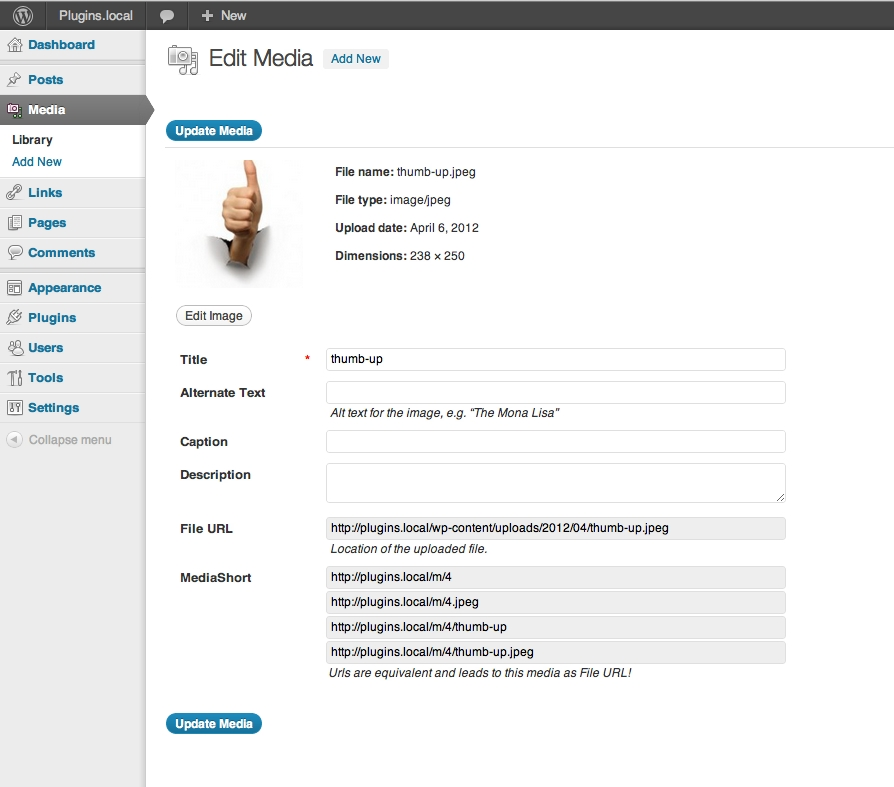
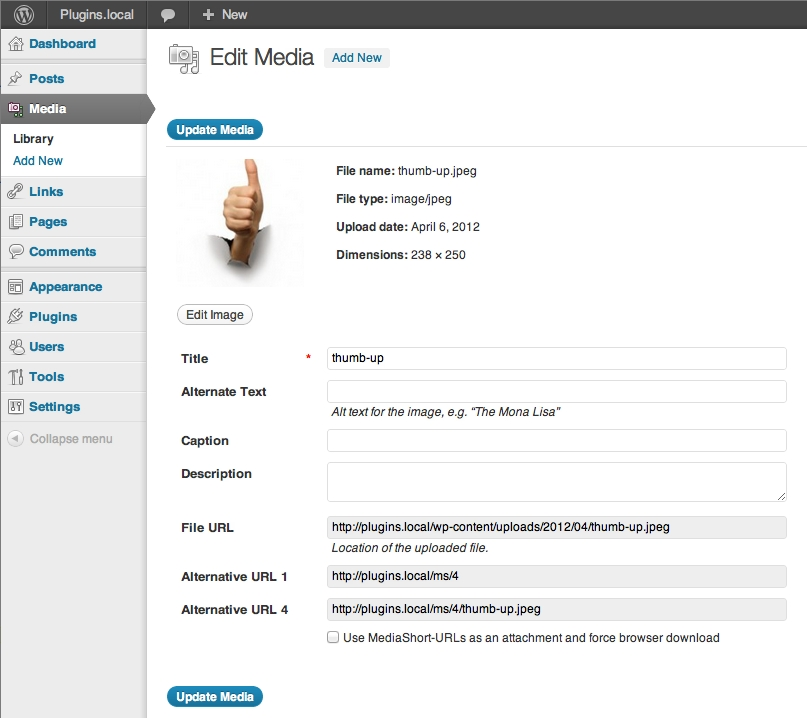
1.2
git-svn-id: https://plugins.svn.wordpress.org/mediashort/trunk@528508 b8457f37-d9ea-0310-8a92-e5e31aec5664

diff --git a/includes/ms_settings.class.php b/includes/ms_settings.class.php
@@ -7,11 +7,27 @@ $ms_settings = new MediaShort_Settings();
  */
 class MediaShort_Settings{
 
+    public $active;
+    public $transfer;
+    public $baseurl;
+    public $tag;
+    public $links;
+
     public function __construct()
     {
         add_action('admin_menu', array( &$this, 'menu' ));
+        $this->init_variables();
     }
-    
+
+    function init_variables(){
+        $mediashort_settings = get_option( 'mediashort-settings', '');
+        $this->active = (int)$mediashort_settings['active'];
+        $this->transfer = empty($mediashort_settings['transfer']) ? 'file' : $mediashort_settings['transfer'];
+        $this->baseurl = $mediashort_settings['baseurl'];
+        $this->tag = empty($mediashort_settings['tag']) ? 'ms' : $mediashort_settings['tag'];
+        $this->links = empty($mediashort_settings['links']) ? '1' : $mediashort_settings['links'];
+    }
+
     public function menu()
     {
         global $current_user;
@@ -45,10 +61,16 @@ class MediaShort_Settings{
             if ($_REQUEST['active']) $mediashort_settings['active'] = 1;
             else $mediashort_settings['active'] = 0;
 
-            if ($_REQUEST['remove_www']) $mediashort_settings['remove_www'] = 1;
-            else $mediashort_settings['remove_www'] = 0;
-
+            $transfer = esc_attr($_REQUEST['transfer']);
+            $mediashort_settings['transfer'] = empty($transfer) ? 'file' : $transfer;
+            $mediashort_settings['baseurl'] = esc_attr($_REQUEST['baseurl']);
             $mediashort_settings['tag'] = esc_attr($_REQUEST['tag']);
+
+            $links = 0;
+            foreach($_REQUEST['links'] as $link){
+                $links += (int)$link;
+            }
+            $mediashort_settings['links'] = (int)$links;
 
             update_option('mediashort-settings', $mediashort_settings);
 
@@ -59,11 +81,32 @@ class MediaShort_Settings{
             <div class="updated"><p><strong><?php _e("MediaShort settings is updated!","mediashort") ?></strong></p></div>
             <?php
 
+            $this->init_variables();
         }
 
-        $active = (int)$mediashort_settings['active'];
-        $remove_www = (int)$mediashort_settings['remove_www'];
-        $tag = empty($mediashort_settings['tag']) ? 'ms' : $mediashort_settings['tag'];
+            $root = get_bloginfo('url');
+            if (!empty($this->baseurl)) $root = $this->baseurl;
+
+            $filename = "example";
+            $ext = ".jpg";
+            $post_id = 465;
+
+            //Get the latest attachment as an example!
+            $args = array(
+                'numberposts'     => 1,
+                'post_type'       => 'attachment'
+            );
+            $posts_array = get_posts( $args );
+
+            if (sizeof($posts_array)>0){
+                $post_id = $posts_array[0]->ID;
+                $post = get_post($posts_id);
+                $ext_start = strrpos($post->guid,'.');
+                if ($ext_start>0){
+                    $ext = substr($post->guid, $ext_start);
+                }
+            }
+
 
     ?>
             <form method="post" >
@@ -73,25 +116,38 @@ class MediaShort_Settings{
                         <td>
                             <?php
                                 echo '<input type="checkbox" name="active" ';
-                                if ($active) echo ' checked';
+                                if ($this->active) echo ' checked';
                                 echo '>';
                             ?>
                         </td>
                     </tr>
                     <tr valign="top">
-                        <th scope="row"><?php _e('Remove www from url', 'mediashort'); ?>:</th>
+                        <th scope="row"><?php _e('Base URL replacement', 'mediashort'); ?></th>
                         <td>
-                            <?php
-                                echo '<input type="checkbox" name="remove_www" ';
-                                if ($remove_www) echo ' checked';
-                                echo '>';
-                            ?>
+                            <input type="input" name="baseurl" value="<?php echo $this->baseurl; ?>" /> <?php _e('(In case of use duplicate url address, eg http://amek.se instead of base url http://www.amek.se)','mediashort') ?>
                         </td>
                     </tr>
                     <tr valign="top">
                         <th scope="row"><?php _e('Short URL tag', 'mediashort'); ?></th>
                         <td>
-                            <input type="input" name="tag" value="<?php echo $tag; ?>" /> <?php _e('(This will change the old MediaShort URLs!)','mediashort') ?>
+                            <input type="input" name="tag" value="<?php echo $this->tag; ?>" /> <?php _e('(This will change the old MediaShort URLs!)','mediashort') ?>
+                        </td>
+                    </tr>
+                    <tr valign="top">
+                        <th scope="row"><?php _e('Transfer mode', 'mediashort'); ?></th>
+                        <td>
+                            <input name="transfer" type="radio" value="redirect" <?php if ($this->transfer=='redirect') echo 'checked'; ?>> <?php _e('Redirect (force download as attachment will not work)','mediashort'); ?><br/>
+                            <input name="transfer" type="radio" value="file" <?php if ($this->transfer=='file') echo 'checked'; ?>> <?php _e('Rewrite the url and transfer content','mediashort'); ?><br/>
+                            <!--input enabled="false" name="transfer" type="radio" value="curl" <?php if ($this->transfer=='curl') echo 'checked'; ?>> <?php _e('Use cURL','mediashort'); ?><br/-->
+                        </td>
+                    </tr>
+                    <tr valign="top">
+                        <th scope="row"><?php _e('Show link type in media dialog', 'mediashort'); ?></th>
+                        <td>
+                            <input name="links[]" type="checkbox" value="1" <?php if ($this->links & 1) echo 'checked'; ?> /> <?php _e("Alternative URL 1: Shortest possible","mediashort") ?>, <?php echo $root; ?>/<?php echo $this->tag ?>/ID, eg <em><a target="_blank" href="<?php echo $root; ?>/<?php echo $this->tag; ?>/<?php echo $post_id; ?>"><?php echo $root; ?>/<?php echo $this->tag; ?>/<?php echo $post_id; ?></a></em><br/>
+                            <input name="links[]" type="checkbox" value="2" <?php if ($this->links & 2) echo 'checked'; ?> /> <?php _e("Alternative URL 2: Short with filename extention","mediashort") ?>, <?php echo $root; ?>/<?php echo $this->tag ?>/ID.extention, eg <em><a target="_blank" href="<?php echo $root; ?>/<?php echo $this->tag; ?>/<?php echo $post_id; ?><?php echo $ext; ?>"><?php echo $root; ?>/<?php echo $this->tag; ?>/<?php echo $post_id; ?><?php echo $ext; ?></a></em><br/>
+                            <input name="links[]" type="checkbox" value="4" <?php if ($this->links & 4) echo 'checked'; ?> /> <?php _e("Alternative URL 3: The filename","mediashort") ?>, <?php echo $root; ?>/<?php echo $this->tag ?>/ID/filename, eg <em><a target="_blank" href="<?php echo $root; ?>/<?php echo $this->tag; ?>/<?php echo $post_id; ?>/<?php echo $filename; ?>"><?php echo $root; ?>/<?php echo $this->tag; ?>/<?php echo $post_id; ?>/<?php echo $filename; ?></a></em><br/>
+                            <input name="links[]" type="checkbox" value="8" <?php if ($this->links & 8) echo 'checked'; ?> /> <?php _e("Alternative URL 4: The filename and extention","mediashort") ?>, <?php echo $root; ?>/<?php echo $this->tag ?>/ID/filename.extention, eg <em><a target="_blank" href="<?php echo $root; ?>/<?php echo $this->tag; ?>/<?php echo $post_id; ?>/<?php echo $filename; ?><?php echo $ext; ?>"><?php echo $root; ?>/<?php echo $this->tag; ?>/<?php echo $post_id; ?>/<?php echo $filename; ?><?php echo $ext; ?></a></em><br/>
                         </td>
                     </tr>
                 </table>

diff --git a/includes/ms_mediaview.class.php b/includes/ms_mediaview.class.php
@@ -15,23 +15,21 @@ class MediaShort_MediaView{
     function admin_init(){
 
         add_filter("attachment_fields_to_edit", array(&$this,'fields_to_edit'), null, 2);
+        add_filter( "attachment_fields_to_save", array( &$this, 'fields_to_save'), null, 2 );
 
     }
 
     function fields_to_edit($form_fields, $post){
 
-        $mediashort_settings = get_option( 'mediashort-settings', '');
-        $active = $mediashort_settings['active'];
-        $remove_www = $mediashort_settings['remove_www'];
-        $tag = empty($mediashort_settings['tag']) ? 'ms' : $mediashort_settings['tag'];
+        $settings = new MediaShort_Settings();
 
-        if ($active){
+        if ($settings->active){
 
             $root = get_bloginfo('url');
 
-            if ($remove_www) $root = str_replace('www.', '', $root);
+            if (!empty($settings->baseurl)) $root = $settings->baseurl;
 
-            $url = $root . '/'.$tag.'/' . $post->ID;
+            $url = $root . '/'.$settings->tag.'/' . $post->ID;
 
             $ext = "";
             $ext_start = strrpos($post->guid,'.');
@@ -39,21 +37,66 @@ class MediaShort_MediaView{
                 $ext = substr($post->guid, $ext_start);
             }
 
-            $form_fields["mediashort1"] = array(
-               "label" => __("MediaShort","mediashort"),
-               "input" => "html",
-               "html" =>
-                   '<input type="text" readonly="readonly" value="'.$url.'" onclick="jQuery(this).focus(); jQuery(this).select();" /><br/>' .
-                   '<input type="text" readonly="readonly" value="'.$url . $ext.'" onclick="jQuery(this).focus(); jQuery(this).select();" /><br/>' .
-                   '<input type="text" readonly="readonly" value="'.$url . '/' . $post->post_name.'" onclick="jQuery(this).focus(); jQuery(this).select();" /><br/>' .
-                   '<input type="text" readonly="readonly" value="'.$url . '/' . $post->post_name . $ext.'" onclick="jQuery(this).focus(); jQuery(this).select();" /><br/>' .
-                   '<em>&nbsp;'.__("Urls are equivalent and leads to this media as File URL!","mediashort").'</em>'
-            );
+            if ($settings->links & 1){
+                $form_fields["mediashort1"] = array(
+                   "label" => __("Alternative URL 1","mediashort"),
+                   "input" => "html",
+                   "html" =>
+                       '<input type="text" readonly="readonly" value="'.$url.'" onclick="jQuery(this).focus(); jQuery(this).select();" />'
+                );
+            }
+
+            if ($settings->links & 2){
+                $form_fields["mediashort2"] = array(
+                   "label" => __("Alternative URL 2","mediashort"),
+                   "input" => "html",
+                   "html" =>
+                    '<input type="text" readonly="readonly" value="'.$url . $ext.'" onclick="jQuery(this).focus(); jQuery(this).select();" />'
+                );
+            }
+
+            if ($settings->links & 4){
+                $form_fields["mediashort3"] = array(
+                   "label" => __("Alternative URL 3","mediashort"),
+                   "input" => "html",
+                   "html" =>
+                   '<input type="text" readonly="readonly" value="'.$url . '/' . $post->post_name.'" onclick="jQuery(this).focus(); jQuery(this).select();" />'
+                );
+            }
+
+            if ($settings->links & 8){
+                $form_fields["mediashort4"] = array(
+                   "label" => __("Alternative URL 4","mediashort"),
+                   "input" => "html",
+                   "html" =>
+                   '<input type="text" readonly="readonly" value="'.$url . '/' . $post->post_name . $ext.'" onclick="jQuery(this).focus(); jQuery(this).select();" />'
+                );
+            }
+
+            if ($settings->transfer!="redirect"){
+                $attachment = (int)get_post_meta($post->ID, '_mediashort_attachment', true) ? "checked" : "";
+                $form_fields["mediashort_attachment"] = array(
+                   "label" => "",
+                   "input" => "html",
+                   "html" =>
+                       '<input type="checkbox" value="attachment" name="attachments['.$post->ID.'][mediashort_attachment]" id="attachments['.$post->ID.'][mediashort_attachment]" '.$attachment.' /> ' . __("Use MediaShort-URLs as an attachment and force browser download","mediashort")
+                );
+            }
 
         }
 
         return $form_fields;
 
+    }
+
+    function fields_to_save($post, $attachment) {
+        if( isset($attachment['mediashort_attachment']) ){
+            update_post_meta($post['ID'], '_mediashort_attachment', 1);
+        }
+        else{
+            update_post_meta($post['ID'], '_mediashort_attachment', 0);
+        }
+        return $post;
     }
 
 }

diff --git a/includes/ms_rewrite.class.php b/includes/ms_rewrite.class.php
@@ -15,12 +15,9 @@ class MediaShort_Rewrite{
 
     function ms_rewrite_rules( $wp_rewrite )
     {
-        $mediashort_settings = get_option( 'mediashort-settings', '');
-        $active = $mediashort_settings['active'];
-        $tag = empty($mediashort_settings['tag']) ? 'ms' : $mediashort_settings['tag'];
-
-        if ($active){
-            $new_rules = array( $tag.'/(.+?)/?$' => 'index.php?mediashort='.$wp_rewrite->preg_index(1) );
+        $settings = new MediaShort_Settings();
+        if ($settings->active){
+            $new_rules = array( $settings->tag.'/(.+?)/?$' => 'index.php?mediashort='.$wp_rewrite->preg_index(1) );
             $wp_rewrite->rules = $new_rules + $wp_rewrite->rules;
         }
     }
@@ -35,7 +32,56 @@ class MediaShort_Rewrite{
         if (array_key_exists('mediashort', $wp->query_vars))
         {
             $id = $wp->query_vars['mediashort'];
-            wp_redirect(wp_get_attachment_url($id));
+            $post = get_post($id);
+
+            $attachment = (int)get_post_meta($id, '_mediashort_attachment',true);
+
+            $settings = new MediaShort_Settings();
+
+            if ($settings->transfer=='file'){
+
+                header('Content-Type: ' . $post->post_mime_type);
+                header('Content-Transfer-Encoding: binary');
+                header('Expires: 0');
+                header('Cache-Control: must-revalidate');
+                header('Pragma: public');
+                header('Content-Length: ' . getimagesize($post->guid));
+                header('Content-Description: File Transfer');
+
+                if ($attachment){
+                    header('Content-Disposition: attachment; filename='.basename($post->post_name));
+                }
+
+                readfile($post->guid);
+
+            }
+            else if ($settings->transfer=='curl'){
+
+                header('Content-Type: ' . $post->post_mime_type);
+                header('Content-Transfer-Encoding: binary');
+                header('Expires: 0');
+                header('Cache-Control: must-revalidate');
+                header('Pragma: public');
+                header('Content-Length: ' . getimagesize($post->guid));
+                header('Content-Description: File Transfer');
+
+                if ($attachment){
+                    header('Content-Disposition: attachment; filename='.basename($post->post_name));
+                }
+
+                ob_clean();
+                flush();
+
+                $c = curl_init();
+                curl_setopt($c, CURLOPT_RETURNTRANSFER, 1);
+                curl_setopt($c, CURLOPT_URL, $post->guid);
+                $contents = curl_exec($c);
+                curl_close($c);
+                echo $contents;
+            }
+            else{
+                wp_redirect($post->guid);
+            }
             exit;
         }
     }

diff --git a/mediashort.php b/mediashort.php
@@ -3,7 +3,7 @@
 Plugin Name: MediaShort
 Plugin URI: http://wordpress.org/extend/plugins/medaishort/
 Description: Adds a shorter url to media files in WordPress via WP-admin
-Version: 1.1
+Version: 1.2
 Author: EkAndreas, Hypernode AB
 Author URI: http://hypernode.se
 License: GPLv2
